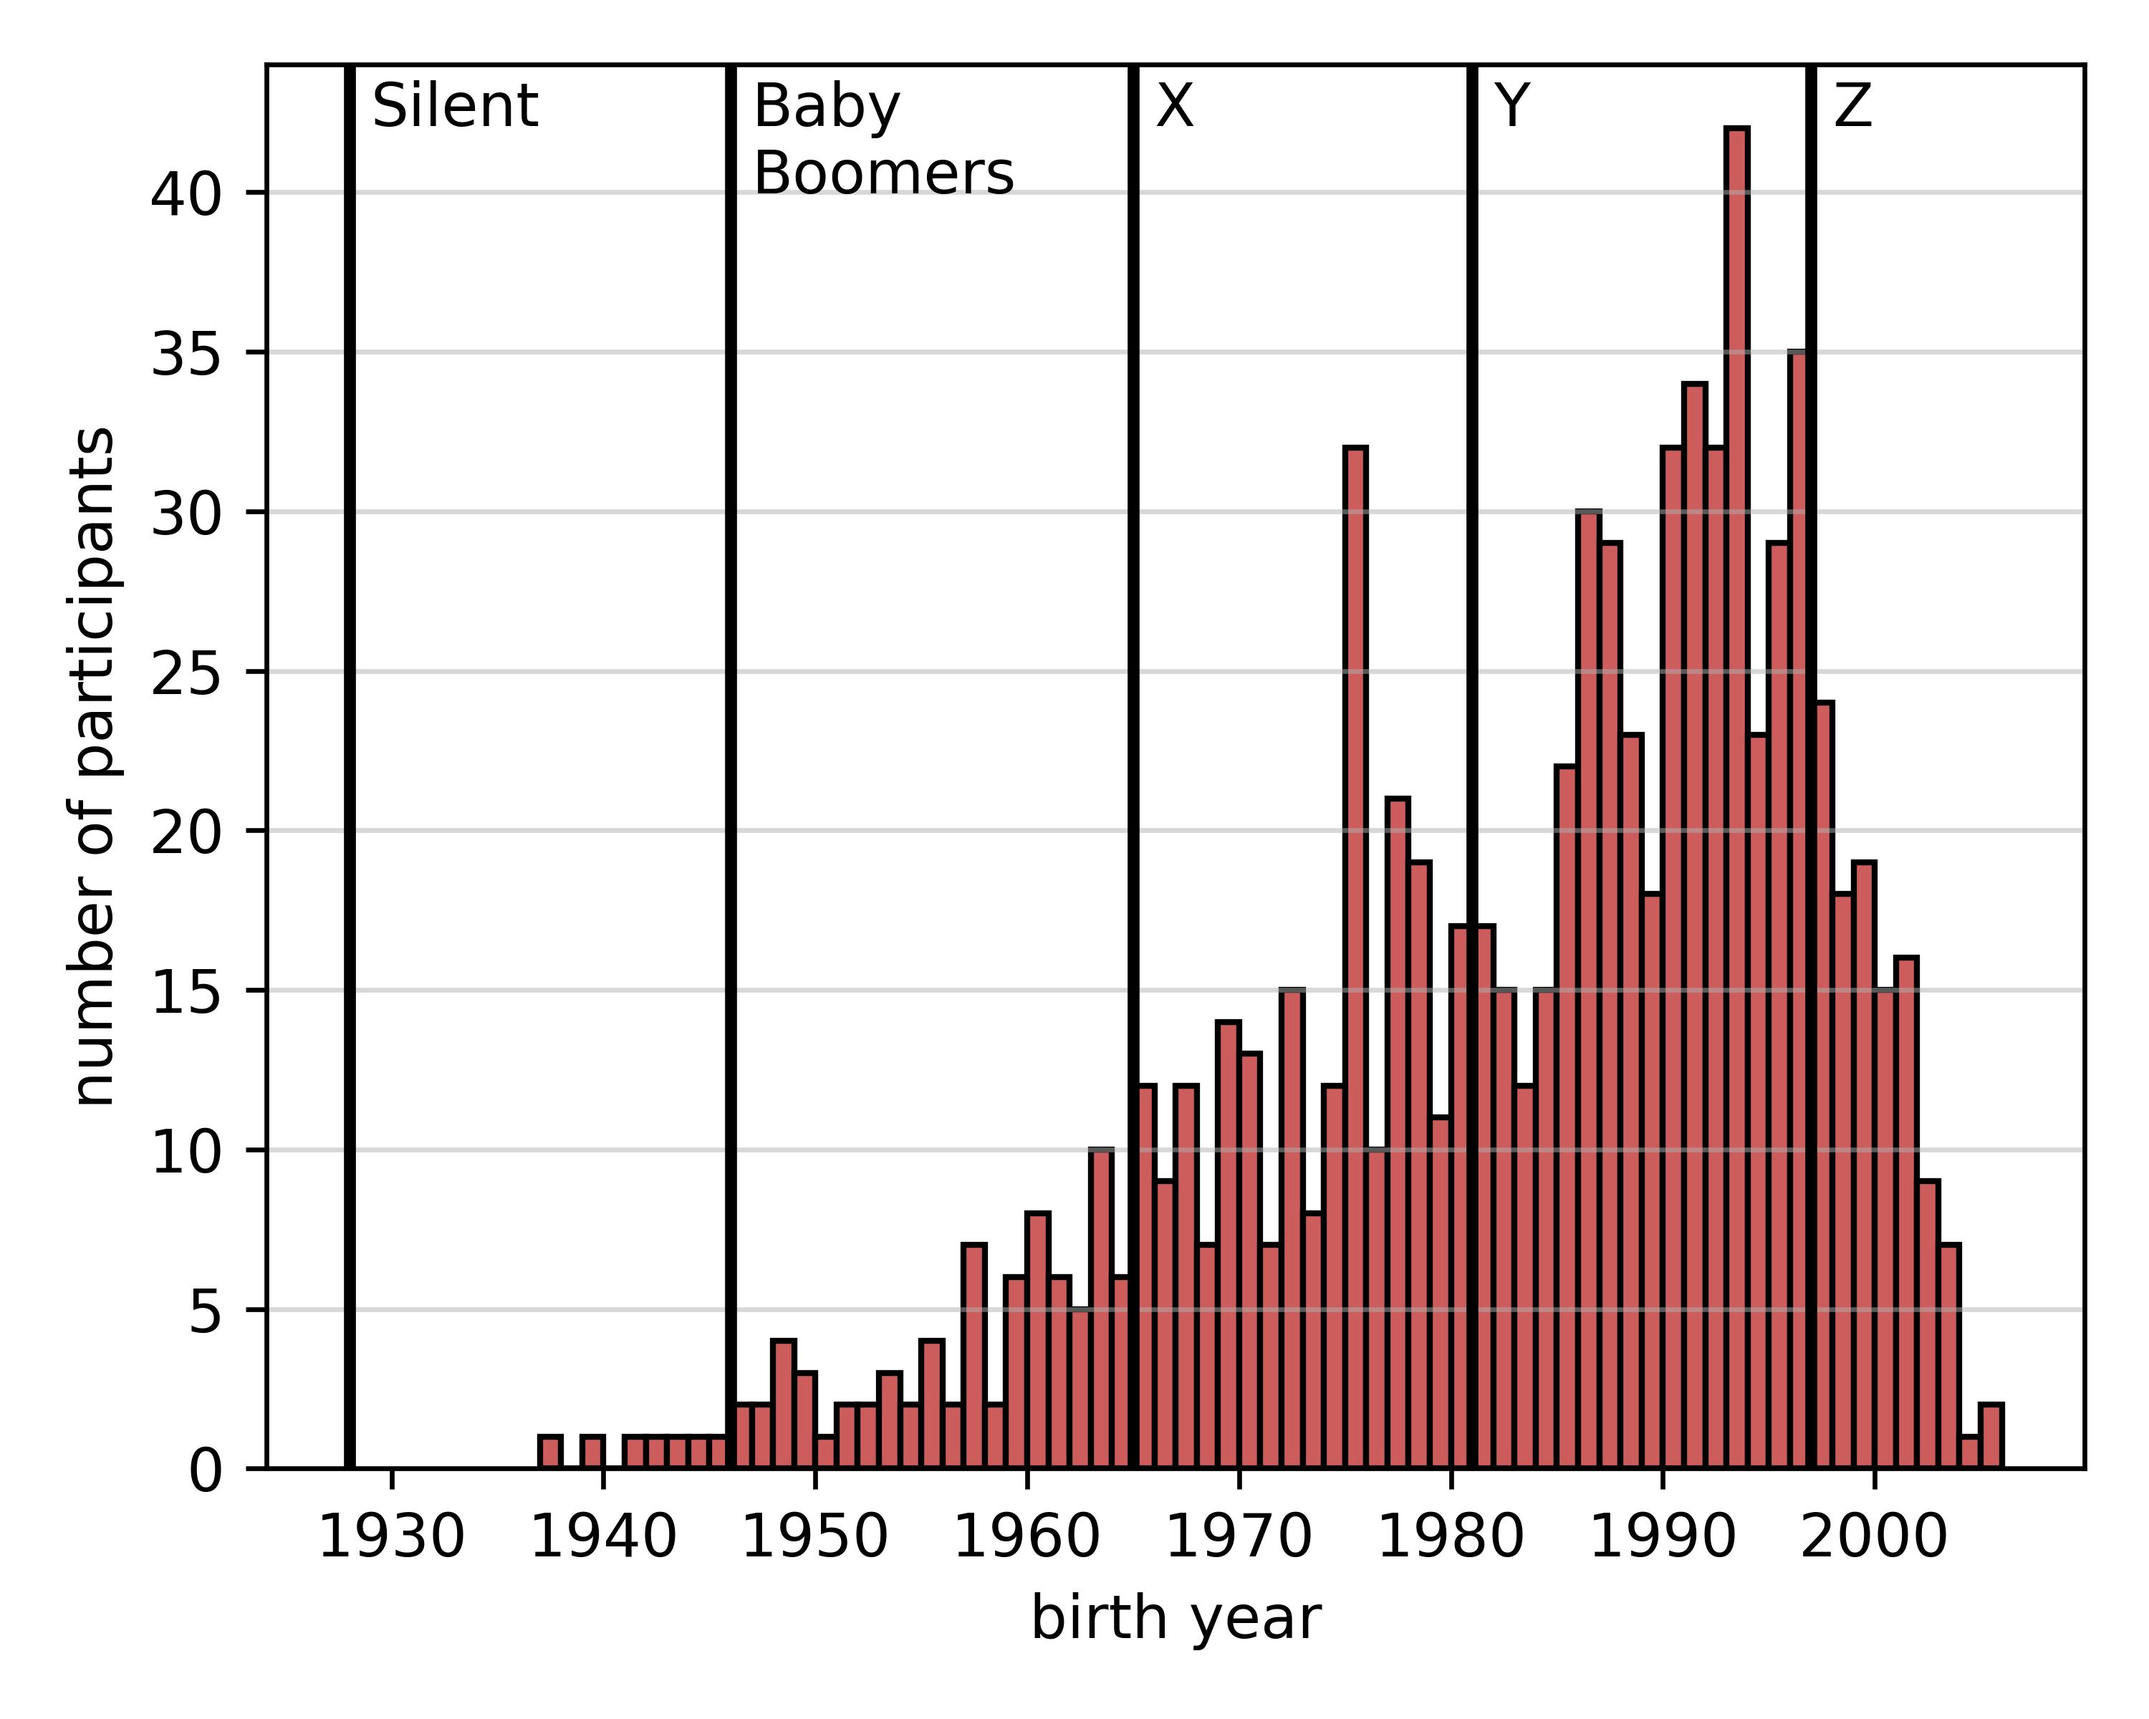
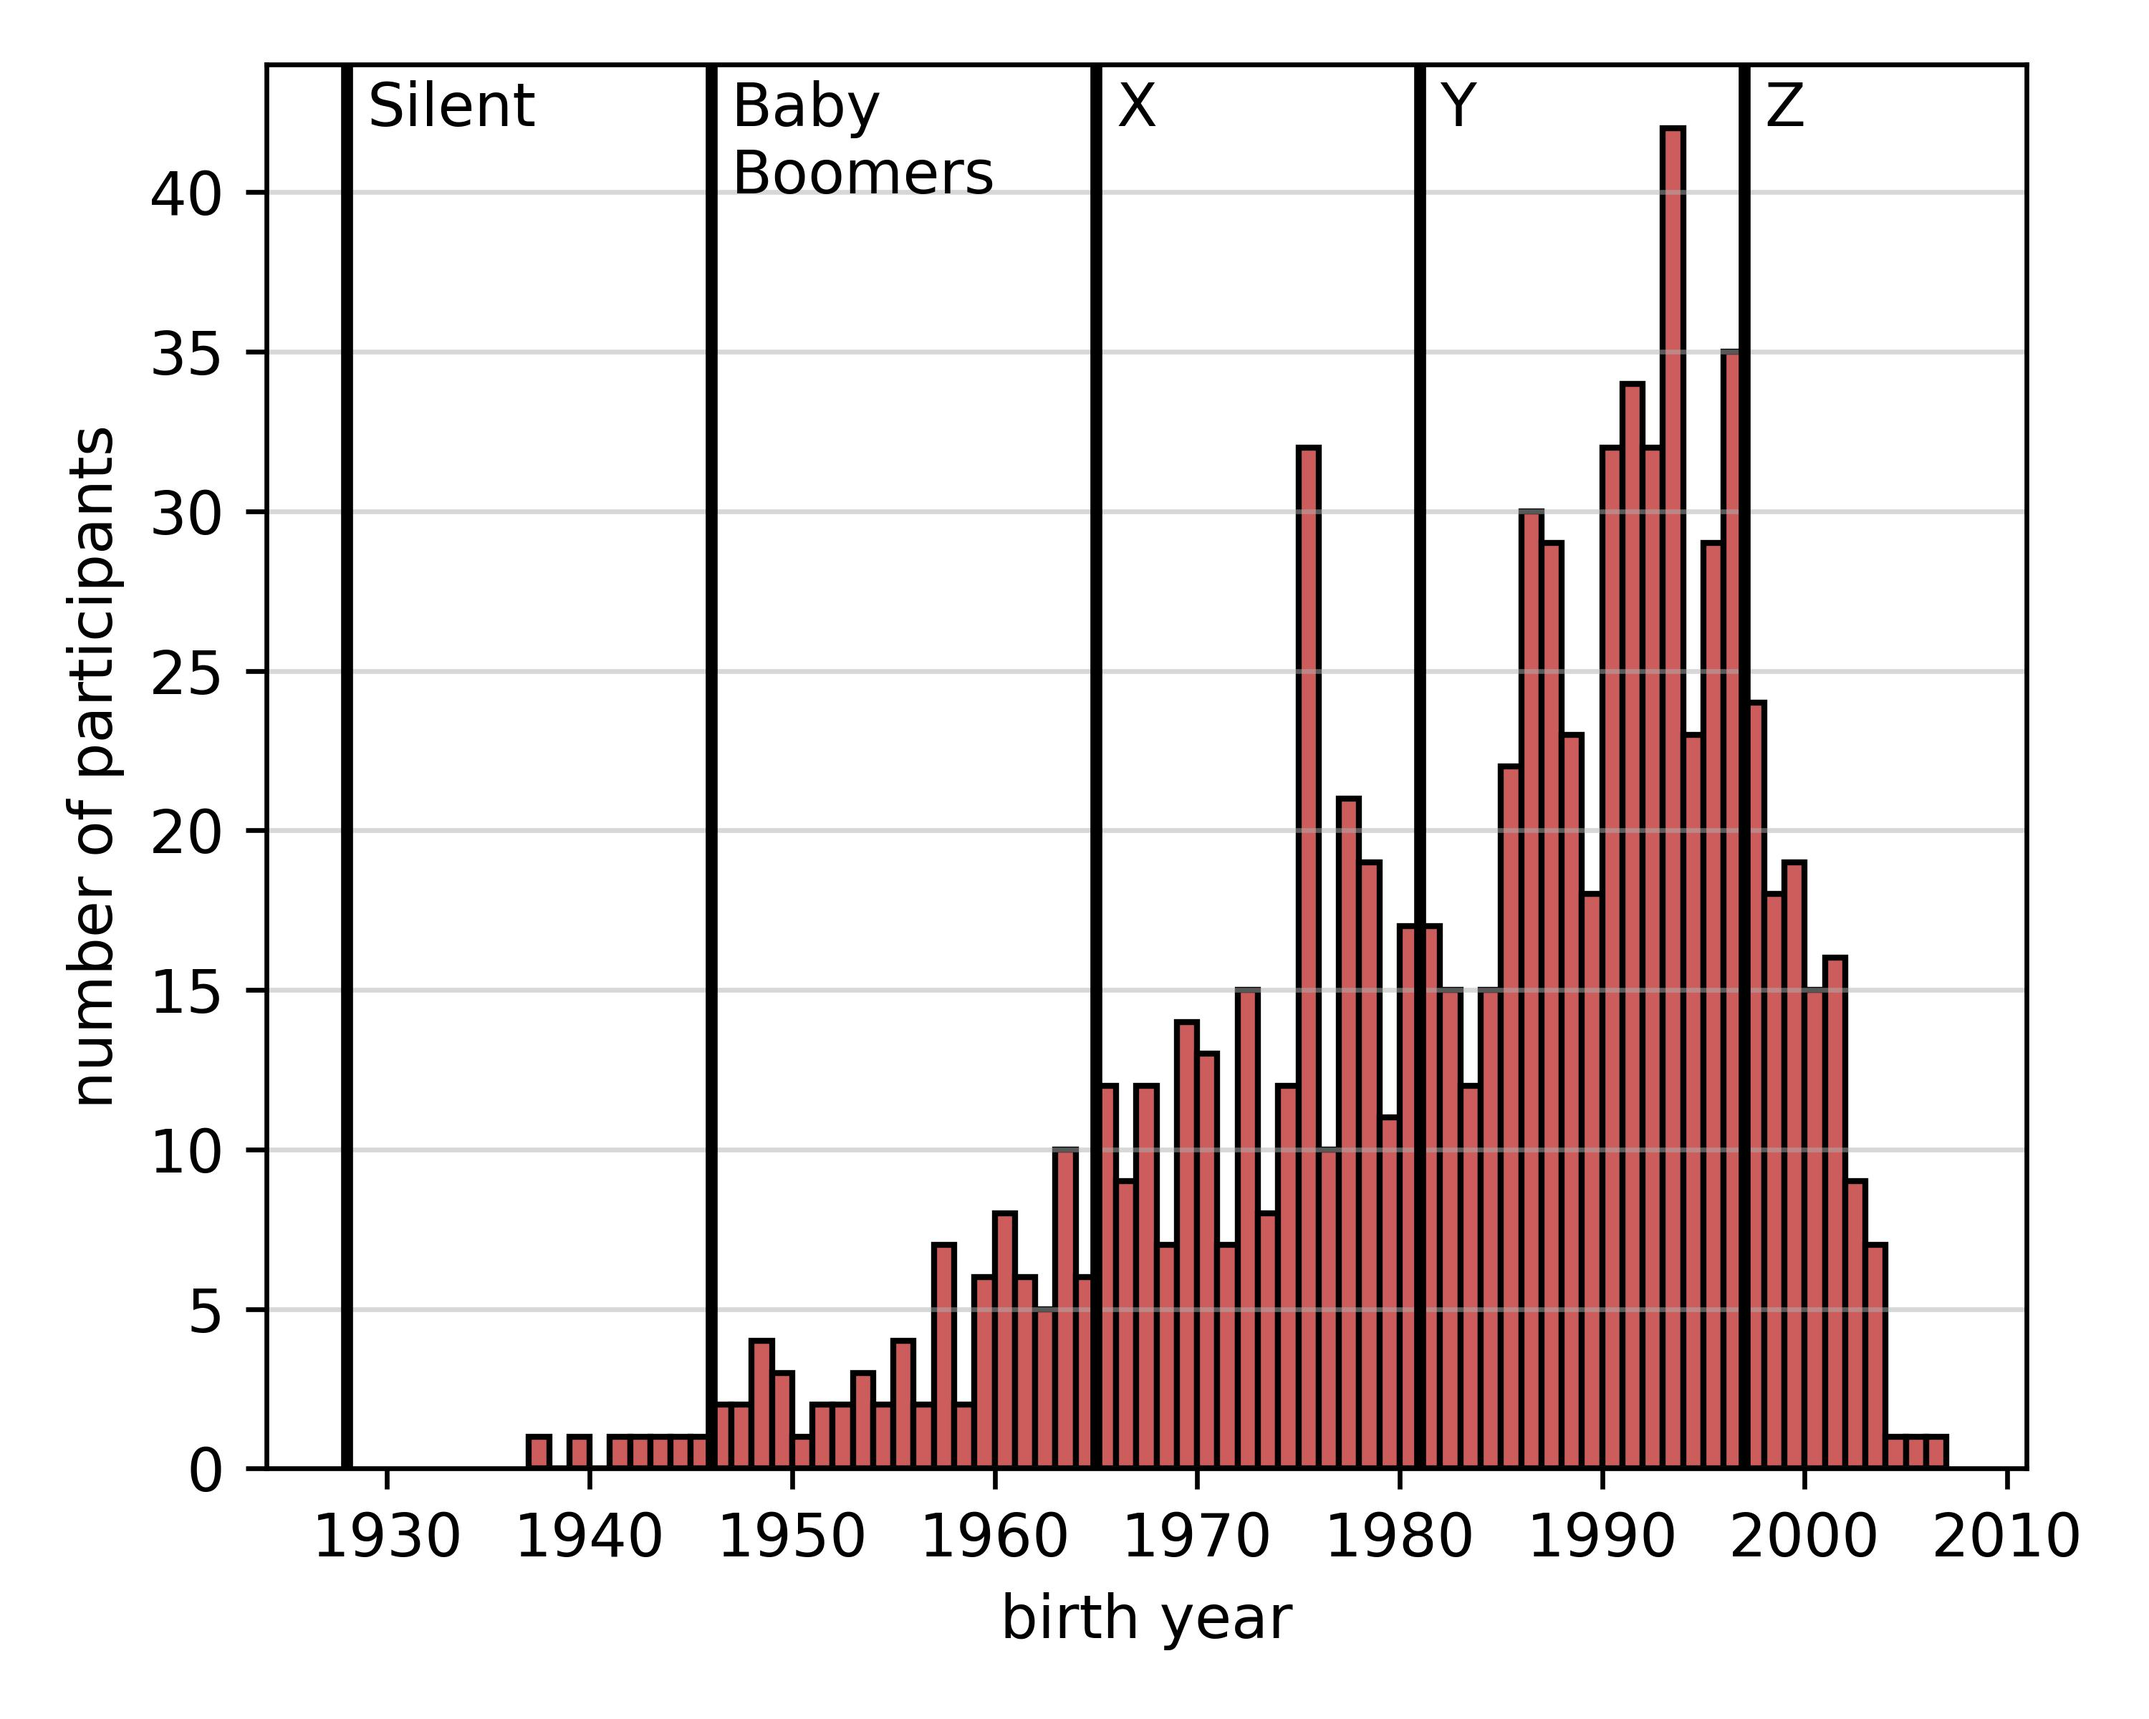
DEBUG: include edge value in histogram

diff --git a/src/library.py b/src/library.py
@@ -26,8 +26,8 @@ class Preprocessor:
 
     def replace_all_but(self, df: pd.DataFrame, column: str, exceptions: list,
                         replace_with: str = 'other') -> pd.DataFrame:
-        '''function replaces all answers in one column with "replace_with"
-        for the answers given in exceptions except for nans'''
+        '''function replaces all answers in one column with "other"
+        except for the predefined options documented in the exceptions list'''
         mask = ~df[column].isin(exceptions) & df[column].notna()
         df.loc[mask, column] = replace_with
         return df
@@ -40,7 +40,7 @@ class Utilities:
         pass
 
     def relative_numbers(self, df, column):
-        '''function prints the relative answers for one specific question'''
+        '''function prints percentage of distinct answers for one specific question'''
         vals, counts = np.unique(df[column].astype(str), return_counts=True)
         counts = list(np.round(counts/counts.sum()*100, 0))
         dic = {'values': vals, 'perc': counts}
@@ -92,10 +92,11 @@ class Plotter:
         '''histogram that shows numbers of submissions over birth years'''
         fig, ax = plt.subplots(figsize=(5, 4))
 
-        h = ax.hist(df['birth year'],
-                    bins=int(df['birth year'].max()-df['birth year'].min()),
-                    color=self.c_colors[0], edgecolor='black')
+        bins = np.arange(df['birth year'].min(), df['birth year'].max() + 2) # Explicitly define the bin edges, including one extra year
+        h = ax.hist(df['birth year'], bins=bins, color=self.c_colors[0], 
+                    edgecolor='black')
 
+        print(df['birth year'].max())
         ax.vlines(x=df_generations['from'], ymin=0, ymax=max(h[0])+2,
                   color='black', lw=2)
         for g in df_generations.index:

diff --git a/src/analyzer.py b/src/analyzer.py
@@ -136,17 +136,15 @@ for gender in ['Male', 'Female', 'Non-binary']:
 df_generations = pd.concat((df_generations, df_genders), axis=1)
 df_generations.fillna(0, inplace=True)
 
-# df.to_excel(f'{MOD}_{FN}_modified.xlsx')
-
 #############################
-# print stats
+# print selected stats
 #############################
 
 print('n participants', len(df))
 print('n participants AT:', len(df[df['country'] == 'Austria']))
 print('n participants DE:', len(df[df['country'] == 'Germany']))
 print('n participants CH:', len(df[df['country'] == 'Switzerland']))
-print('ages:', df['birth year'].min(), df['birth year'].max())
+print('age range:', df['birth year'].min(), df['birth year'].max())
 print('genders:', np.unique(df['gender'], return_counts=True), '\n')
 
 utils.relative_numbers(df, 'profession')
